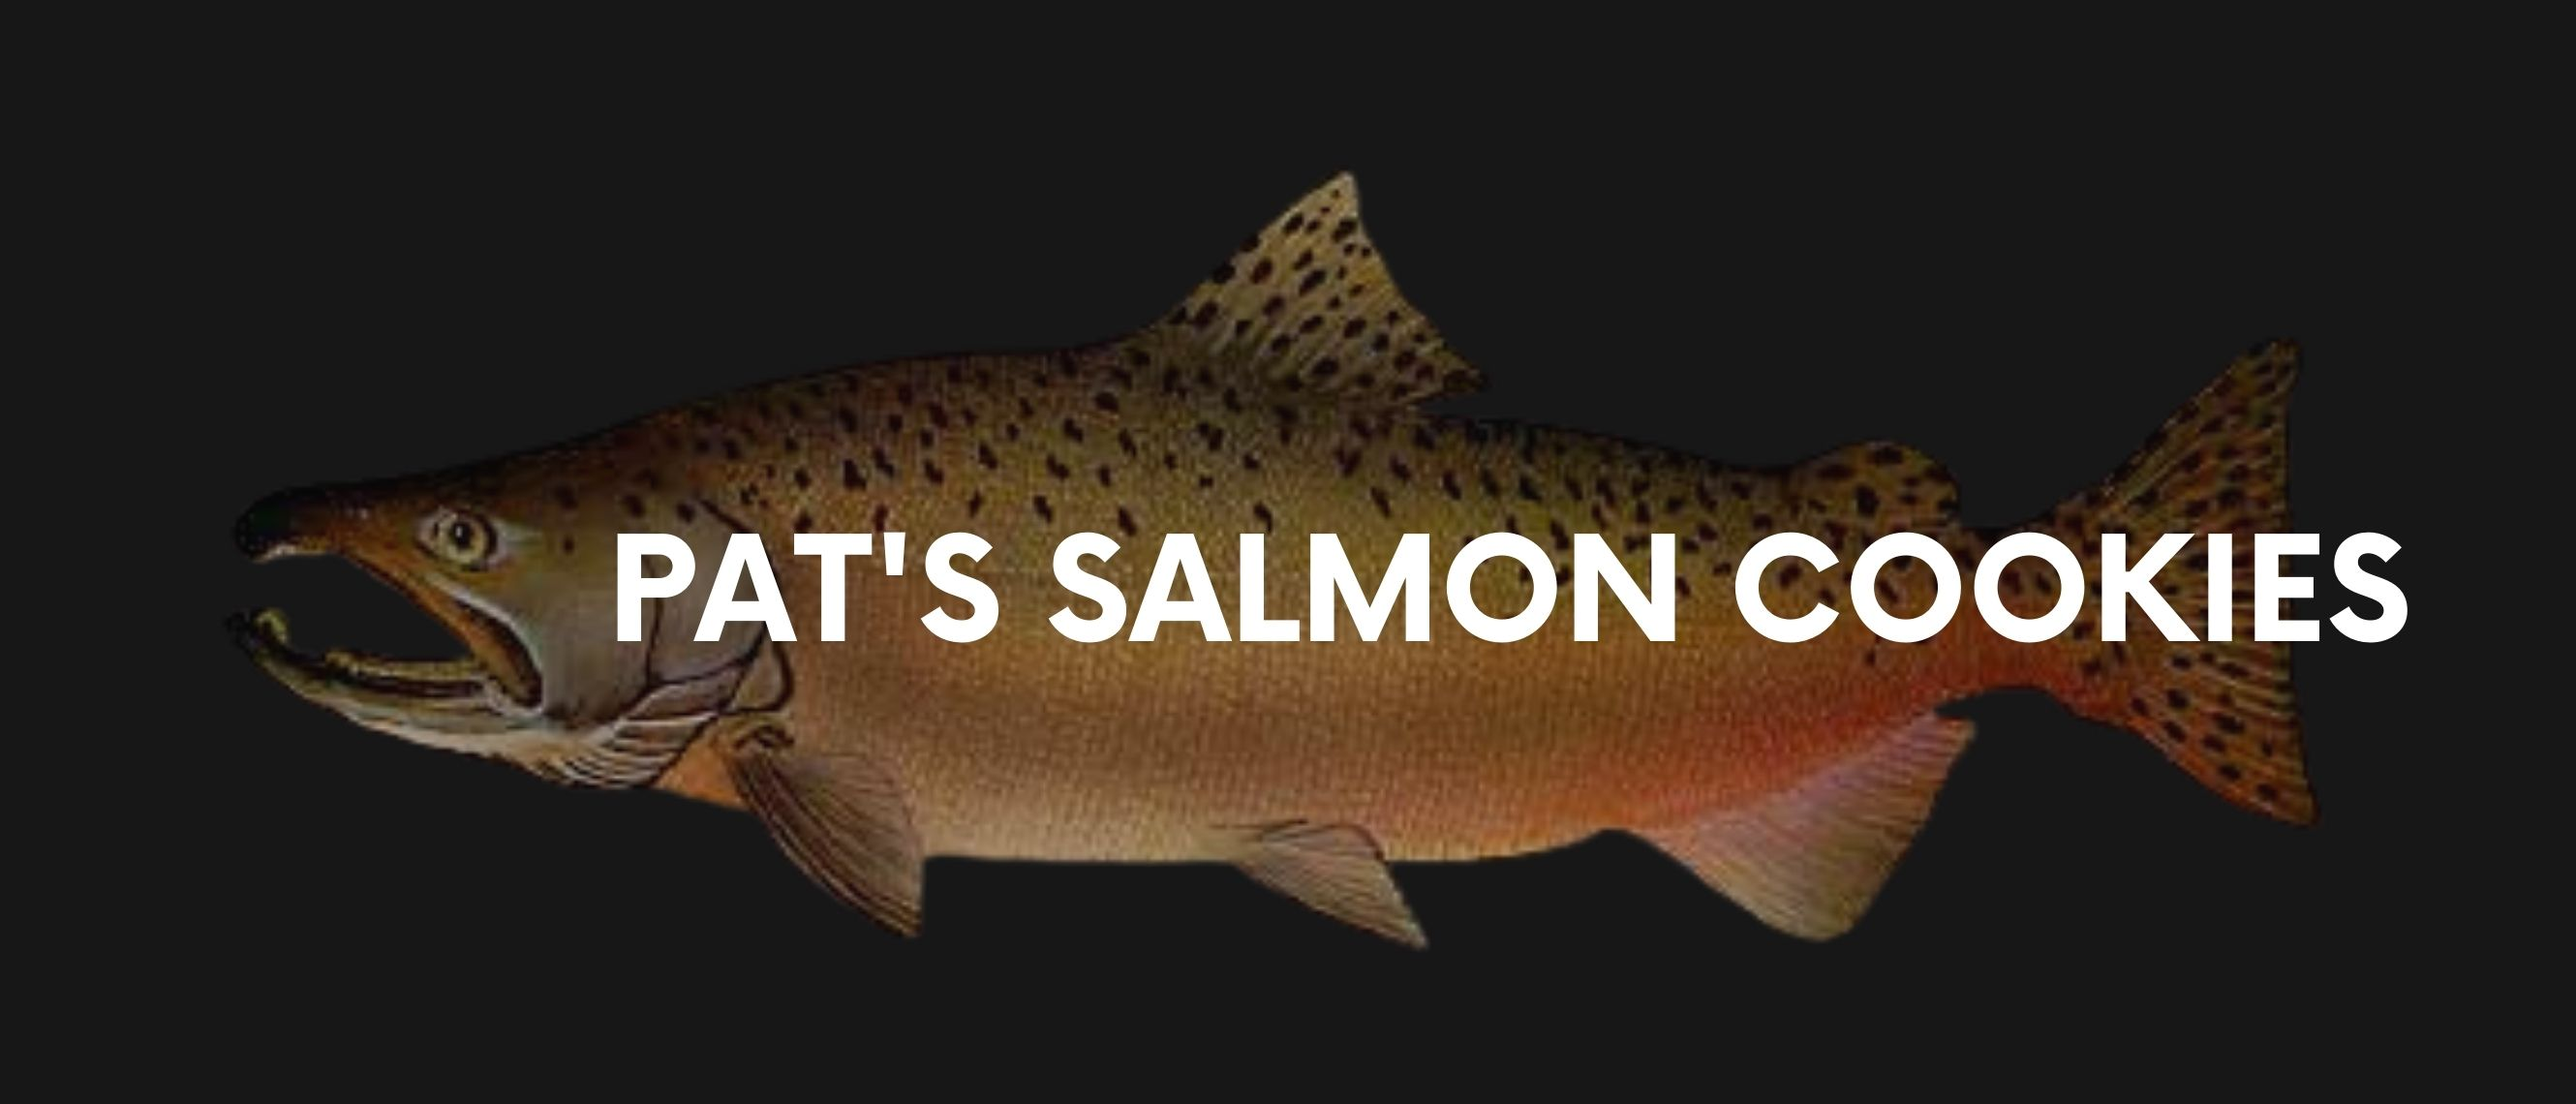
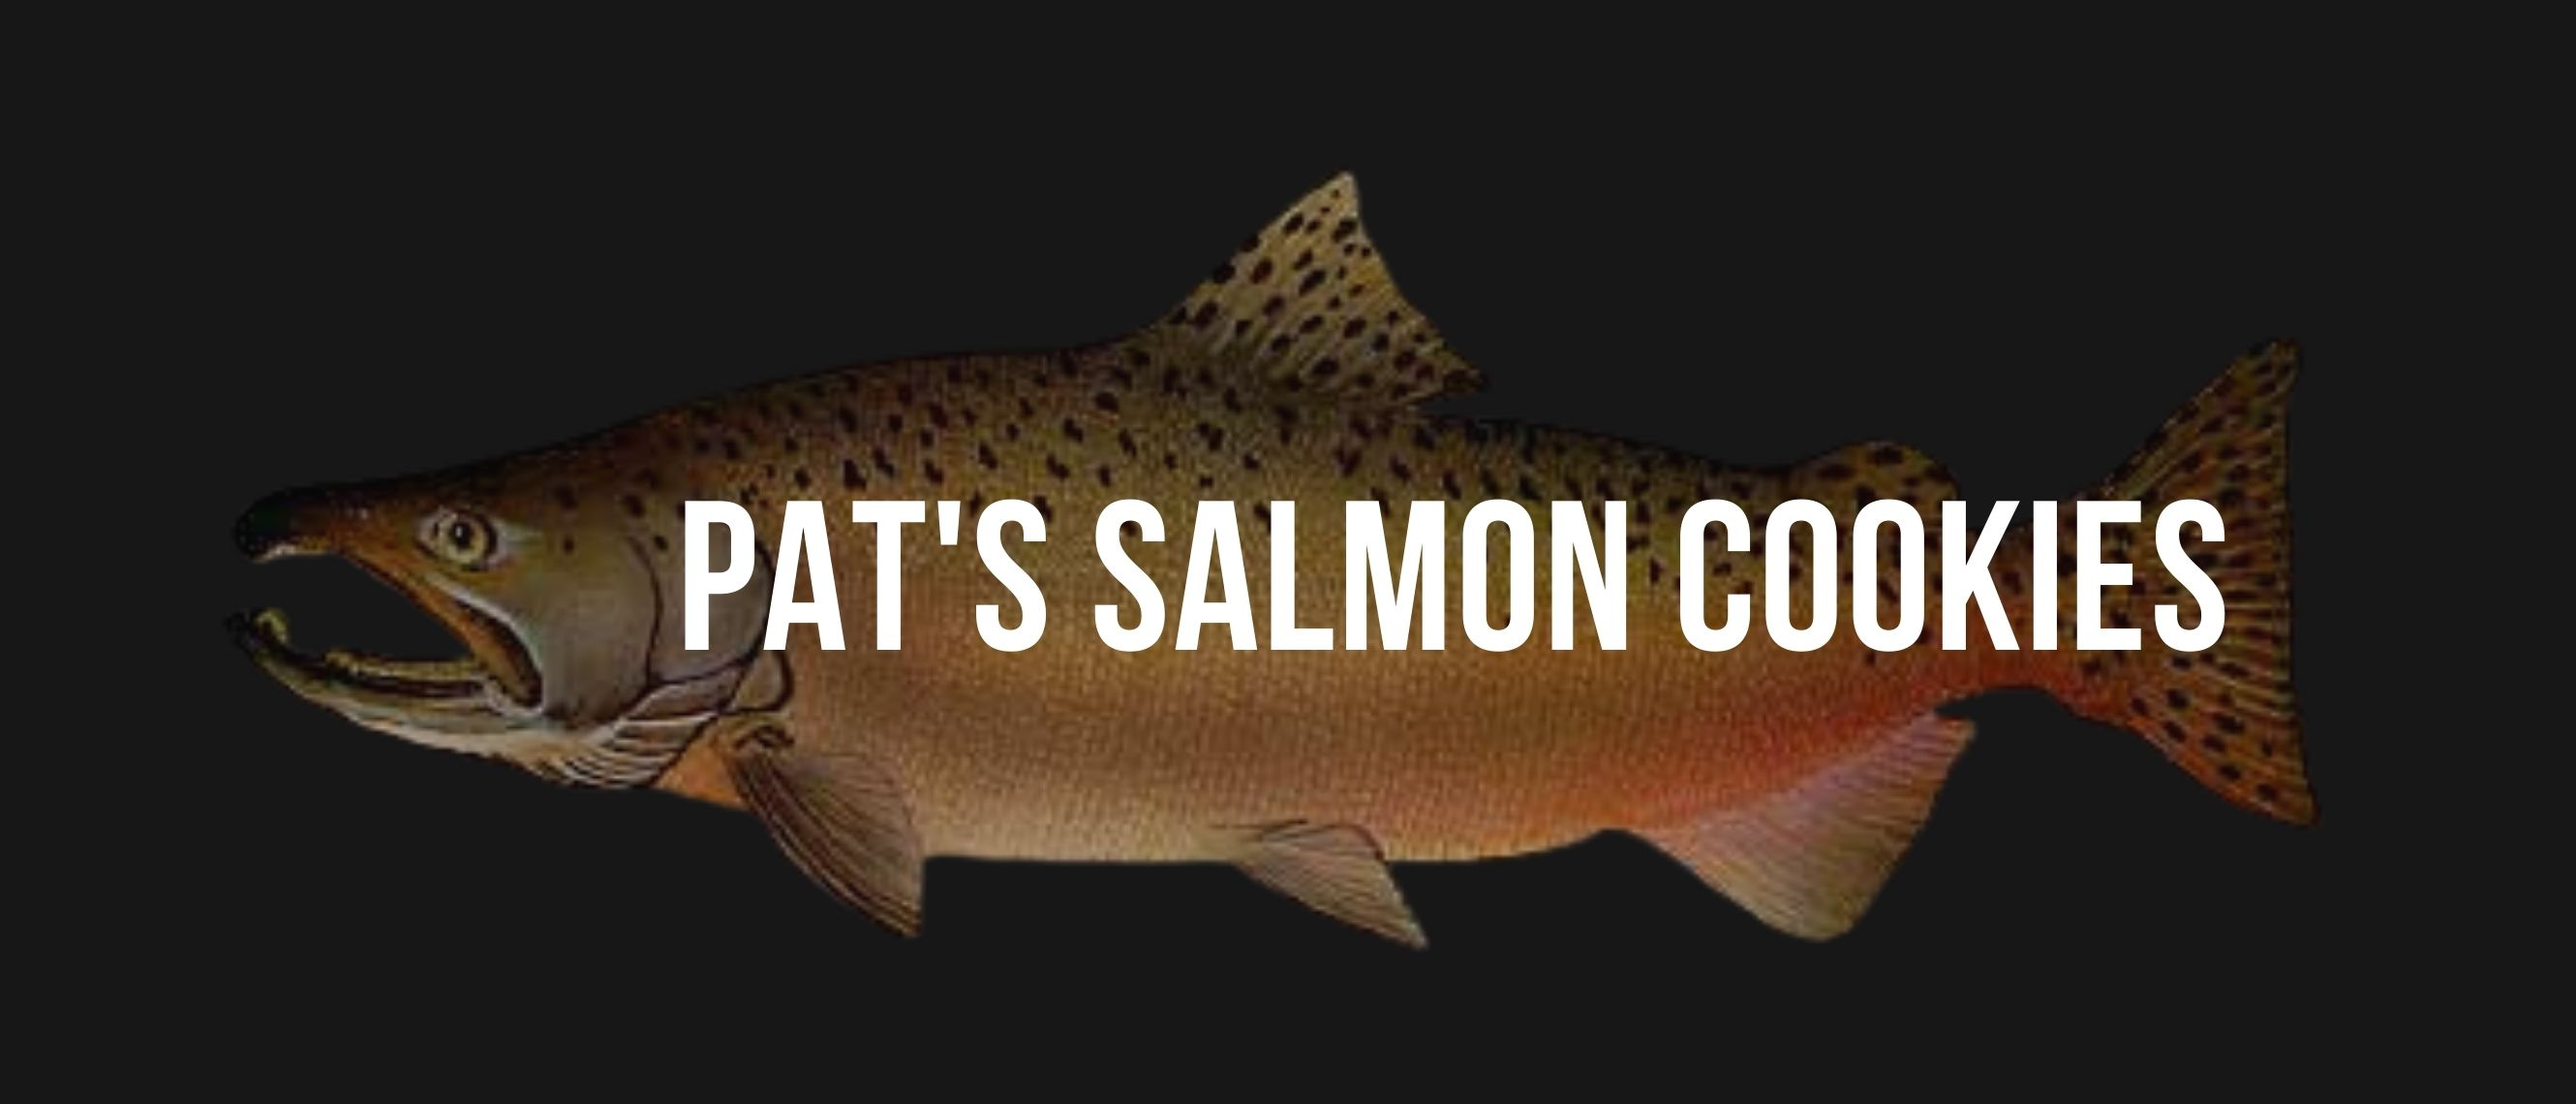
updated css on index page

Changed region(s): [[0.2184, 0.4298, 0.9361, 0.614]]

diff --git a/css/style.css b/css/style.css
@@ -1,8 +1,11 @@
 /* ------------------------index.html-----------------------*/
 body *{
-  /* background: #2E2D2D; */
   box-sizing: border-box;
-  font-family: Verdana, Geneva, Tahoma, sans-serif;
+}
+
+
+body {
+  background: #2E2D2D;
 }
 
 header {
@@ -34,14 +37,24 @@ header nav{
   padding-left: 6%;
 }
 header nav a{
+  font-family: 'Bebas Neue', cursive;
   display: inline;
   color: #3b3939af;
+  font-weight: 600;
   letter-spacing: 2px;
-  font-size: 120%;
+  font-size: 220%;
   padding-right: 9.5%;
 }
 
-#sectOne {
+main li {
+  font-family: Arial, Helvetica, sans-serif;
+  font-size: 150%;
+  line-height: 1.4;
+  letter-spacing: 1px;
+  color: #B6B3B5;
+}
+
+#sectOne, #sectThree {
   display: flex;
   flex-direction: column;
   align-items: center;
@@ -61,68 +74,107 @@ header nav a{
   flex-wrap: nowrap;
   justify-content: center;
   align-items: stretch;
+  padding: 4%;
 }
 
-#articleOne {
-  padding-left: 20%;
-}
-#articleTwo {
-  padding-right: 10%;
-}
-
-#articleThree {
-  padding-right: 25%;
+#sectTwo article {
+  width: 33%;
+  padding: 2%;
+  border: 4px solid #D69B5D;
+  background-color: #514F50;
 }
 
-
-#sectTwo li {
-  font-size: 150%;
-  line-height: 1.4;
-  letter-spacing: 1px;
-  color: #B6B3B5;
+#family, #fishcutter {
+  height: 300px;
+  width: 380px;
+  margin: auto;
+  display: block;
+  padding: 10%;
   
 }
 
-
-#articleOne li{
-  padding-left: 10%;
-}
-
-#family {
-  width: 90%;
-  padding-top: 40px;
-  padding-left: 3%;
+#articleOne ul {
+  display: flex;
+  flex-wrap: wrap;
+  justify-content: space-evenly;
+  padding-left: 4%;
 }
 
 
-#fishcutter{
-  width: 122%;
-  padding-top: 58px;
-  padding-left: 3%;
+#articleTwo ul{
+  display: flex;
+  flex-wrap: wrap;
+  justify-content: space-evenly;
+
+}
+#articleTwo li{
+  display: inline;
+  text-align: center;
+  padding-right:10%;
+  line-height: 150%;
 }
 
-h1 {
-  font-size: 250%;
+#articleThree ul{
+  padding-top: 4%;
+}
+#articleThree li{
+  text-align: center;
+  line-height: 170%;
+}
+
+article h1 {
+  font-family: 'Bebas Neue', cursive;
+  font-size: 350%;
   padding-bottom: 8%;
   padding-top: 10%;
+  letter-spacing: 2px;
   color:#F6F2F4;
   text-align: center;
 }
 
-#articleTwo li{
-  display: inline-block;
-  text-align: center;
-  
+#sectThree {
+  background-color: #BAB6B6 ;
+  padding: 4%;
+}
+#sectFour {
+  background-color: #BAB6B6 ;
+  display: flex;
+  flex-direction: row;
+  flex-wrap: nowrap;
+  justify-content: center;
+  align-items: stretch;
+  padding: 4%;
+
+}
+
+#sectFour article{
+  width: 33%;
+  padding: 2%;
+ 
 }
 
 
 
 
+
+/* 
+
+A specified standard serif web font for text (such as Georgia, Times, etc.)
+Specified different font colors for all three font usages
+A background color for the default page background (make sure font colors have good contrast and are readable on this background)
+A different background color for elements such boxes and tables (so make sure the font colors contrast against this well, too!)
+Anything else you’d like to add related to style. But remember: simplicity, clarity, and consistency are good things in design.
+Be thoughtful about layout and overall organization of the page.
+Include all of the typical stuff that you’ll find on the home page of a business: locations, hours, contact information, some text about how awesome the business is, etc. Be creative, and again, think about what is meaningful to a typical end user. */
 
 
 
 
 /* ------------------------sales.html-----------------------*/
+
+#sectionOne{
+  background-color: #BAB6B6;
+}
 table *{
   border: thin solid black;
   background-color: blanchedalmond;

diff --git a/index.html b/index.html
@@ -5,6 +5,9 @@
     <title>Pat’s Salmon Cookies</title>
     <link rel="stylesheet" href="./css/reset.css">
     <link rel="stylesheet" href="./css/style.css">
+    <link rel="preconnect" href="https://fonts.googleapis.com">
+    <link rel="preconnect" href="https://fonts.gstatic.com" crossorigin>
+    <link href="https://fonts.googleapis.com/css2?family=Bebas+Neue&display=swap" rel="stylesheet">
   </head>
   <body>
     <header>
@@ -55,13 +58,25 @@
         </article>
       </section>
       <section id="sectThree">
-        <img id="logo" src="./img/salmon.png" alt="logo salmon"/>
-        <h1>Merch</h1>
-        <img id="fishshirt" src="./img/shirt.jpg" alt="shirt with fish"/>
-        <h2>Fish Shirt</h2>
-        <h3>$18</h3>
-        <p>description of shirt</p>
-        <img id="fishcookies" src="./img/fish.jpg" alt="fish cookies"/>
+        <h1>SHOP</h1>
+        <img id="logo" src="./img/Pat'sLogo.png" alt="logo salmon"/>
+      </section>
+      <section id="sectFour">
+        <article>
+          <img id="fishshirt" src="./img/shirt.png" alt="shirt with fish"/>
+         <h2>Fish Shirt</h2>
+         <h3>$18</h3>
+        </article>
+        <article>
+          <img id="fishcookies" src="./img/fish.png" alt="fish cookies"/>
+          <h2>Specialty Cookies</h2>
+          <h3>$4.25</h3>
+        </article>
+        <article>
+          <img id="frostedcookie" src="./img/frosted-cookie.png" alt="frosted cookies"/>
+          <h2>Regular Cookies</h2>
+          <h3>$2.50</h3>
+        </article>
       </section>
     </main>
     <footer>

diff --git a/sales.html b/sales.html
@@ -8,7 +8,7 @@
   <body>
       <header>Cookie Sales Graph</header>
       <main>
-        <section>
+        <section id="sectionOne">
           <h2>Add a Restaurant!</h2>
           <form id="addRestForm">
             <fieldset>

diff --git a/README.md b/README.md
@@ -10,6 +10,9 @@ I created webpage that shows the locations of Restaraunts, listing the hour and 
 * [.gitignore code](https://www.gitignore.io/api/node,linux,macos,windows,visualstudiocode)
 * [Eric Meyer's rest.css file](https://meyerweb.com/eric/tools/css/reset/)
 * [eslintrc.json code](https://github.com/codefellows/seattle-code-201d77/blob/main/configs/eslintrc.json)
+<link rel="preconnect" href="https://fonts.googleapis.com">
+<link rel="preconnect" href="https://fonts.gstatic.com" crossorigin>
+<link href="https://fonts.googleapis.com/css2?family=Bebas+Neue&display=swap" rel="stylesheet">
 
 ### Reflections and Comments
 * This has been great practices integrating all the  complex topics we've learned in class so far. 
